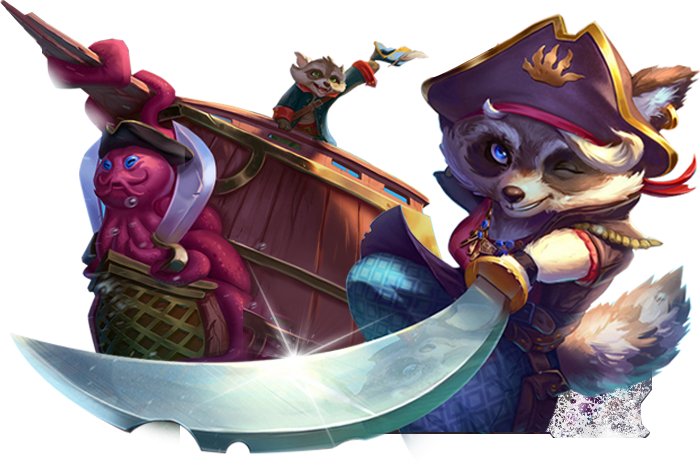
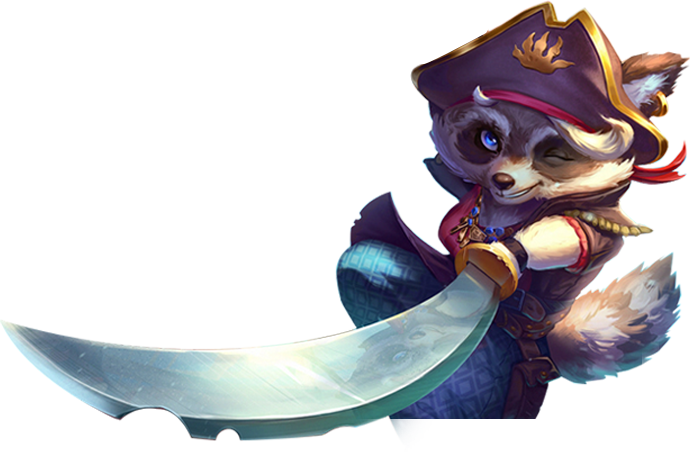
spine

diff --git a/src/components/Main/Second/Animation copy.tsx b/src/components/Main/Second/Animation copy.tsx
@@ -1,0 +1,59 @@
+import { motion } from 'framer-motion'
+
+export const Animation = () => {
+  function template({ rotate, x = 0, y = 0 }: any) {
+    console.log('🚀 ~ file: Animation.tsx:6 ~ template ~ rotate:', rotate)
+    return `translateX(${x}) translateY(${y}) rotate3d(1,1,1,${rotate})`
+  }
+  return (
+    <>
+      <div className="flex justify-end">
+        <img src="/images/kuang.png" className="h-[490px] w-[490px]" alt="" />
+        <motion.div
+          className="absolute bottom-[-10px] right-[0] h-[440px] w-[690px] origin-bottom-right"
+          transformTemplate={template}
+          initial={{
+            rotate: 10,
+            x: -10,
+            y: -5,
+          }}
+          animate={{
+            x: [-10, -10, -10, -10, -10, -30, -20, -15, -10],
+            // y: [0,0,0,0,-10, -15, -10, -15, -20],
+            rotate: [10, 7, 5, 7, 10],
+          }}
+          transition={{
+            delay: 1,
+            duration: 3,
+            ease: 'linear',
+            // times: [0, .1, .2, .3, .4, .5, .7, .8, .9, 1],
+            repeat: Infinity,
+          }}
+        >
+          <img src="/images/ship.png" alt="" className="h-full w-full" />
+        </motion.div>
+        <motion.div
+          className="absolute bottom-[-20px] right-[-50px] h-[450px] w-[690px]"
+          initial={{
+            // opacity: 0,
+            x: 10,
+            y: -25,
+          }}
+          whileInView={{
+            // opacity: 1,
+            y: [-25, -20, -10, -15, -10, -25],
+          }}
+          // viewport={{ once: true }}
+          transition={{
+            delay: 0.3,
+            duration: 3,
+            ease: 'linear',
+            repeat: Infinity,
+          }}
+        >
+          <img src="/images/people.png" alt="" className="h-full w-full" />
+        </motion.div>
+      </div>
+    </>
+  )
+}

diff --git a/src/components/Main/Second/Animation.tsx b/src/components/Main/Second/Animation.tsx
@@ -1,0 +1,59 @@
+import { motion } from 'framer-motion'
+
+export const Animation = () => {
+  function template({ rotate, x = 0, y = 0 }: any) {
+    console.log('🚀 ~ file: Animation.tsx:6 ~ template ~ rotate:', rotate)
+    return `translateX(${x}) translateY(${y}) rotate3d(1,1,1,${rotate})`
+  }
+  return (
+    <>
+      <div className="flex justify-end">
+        <img src="/images/kuang.png" className="h-[490px] w-[490px]" alt="" />
+        <motion.div
+          className="absolute bottom-[-10px] right-[0] h-[440px] w-[690px] origin-bottom-right"
+          transformTemplate={template}
+          initial={{
+            rotate: 10,
+            x: -10,
+            y: -5,
+          }}
+          animate={{
+            x: [-10, -10, -10, -10, -10, -30, -20, -15, -10],
+            // y: [0,0,0,0,-10, -15, -10, -15, -20],
+            rotate: [10, 7, 5, 7, 10],
+          }}
+          transition={{
+            delay: 1,
+            duration: 3,
+            ease: 'linear',
+            // times: [0, .1, .2, .3, .4, .5, .7, .8, .9, 1],
+            repeat: Infinity,
+          }}
+        >
+          <img src="/images/ship.png" alt="" className="h-full w-full" />
+        </motion.div>
+        <motion.div
+          className="absolute bottom-[-20px] right-[-50px] h-[450px] w-[690px]"
+          initial={{
+            // opacity: 0,
+            x: 10,
+            y: -25,
+          }}
+          whileInView={{
+            // opacity: 1,
+            y: [-25, -20, -10, -15, -10, -25],
+          }}
+          // viewport={{ once: true }}
+          transition={{
+            delay: 0.3,
+            duration: 3,
+            ease: 'linear',
+            repeat: Infinity,
+          }}
+        >
+          <img src="/images/people.png" alt="" className="h-full w-full" />
+        </motion.div>
+      </div>
+    </>
+  )
+}

diff --git a/src/components/Main/Second/Index.tsx b/src/components/Main/Second/Index.tsx
@@ -4,10 +4,11 @@ import Image from 'next/image'
 
 import './second.css'
 
-import { motion, useAnimationControls } from 'framer-motion'
+import { motion } from 'framer-motion'
+
+import { Animation } from './Animation'
 
 export const Second = () => {
-  const controls = useAnimationControls()
   return (
     <div className="second">
       <div className="container mx-auto lg:max-w-[1300px]">
@@ -114,36 +115,7 @@ export const Second = () => {
           </div>
           <div className="flex flex-col items-end lg:w-[620px]">
             <div className="relative flex  justify-end">
-              <Image src="/images/ship.png" alt="" width={490} height={490} />
-
-              <motion.div
-                className="absolute bottom-[-10px] right-[-15px]"
-                initial={{
-                  opacity: 0,
-                  // scale: .5,
-                  // y: -50,
-                  x: -100,
-                }}
-                whileInView={{
-                  opacity: 1,
-                  // scale: 1.2,
-                  // y: 0,
-                  // x: -100
-                }}
-                viewport={{ once: true }}
-                transition={{
-                  duration: 1,
-                  ease: 'easeInOut',
-                }}
-              >
-                <Image
-                  decoding="async"
-                  src="/images/people.png"
-                  alt=""
-                  width={690}
-                  height={557}
-                />
-              </motion.div>
+              <Animation />
             </div>
             <div className="relative mt-5 flex items-center justify-end">
               <div className="mr-2 text-end">
